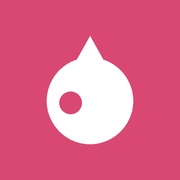
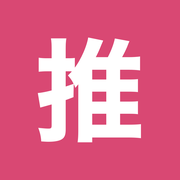
サイト名を推しトピアに変更（ロゴ・アイコン・マニフェスト）

diff --git a/milkies-hiroba/index.html b/milkies-hiroba/index.html
@@ -4,19 +4,19 @@
 <meta charset="utf-8">
 <meta name="viewport" content="width=device-width,initial-scale=1,viewport-fit=cover">
 <meta name="robots" content="noindex,nofollow">
-<meta name="description" content="スタダ男子の情報、ぜんぶここに。非公式ファン広場の試作版です。">
-<meta property="og:title" content="えびだん広場（非公式・試作版）">
+<meta name="description" content="スタダ男子10グループの情報を、グループ×カテゴリで仕分け。ファンの掲示板・コミュニティつき（非公式）。">
+<meta property="og:title" content="推しトピア（非公式・試作版）">
 <meta property="og:description" content="スタダ男子10グループの情報を、グループ×カテゴリで仕分け。公式もファンのいい投稿も、流れていかない推し活の広場（非公式）。">
 <meta property="og:type" content="website">
 <link rel="manifest" href="manifest.json">
 <link rel="apple-touch-icon" href="apple-touch-icon.png">
 <meta name="theme-color" content="#D94873">
-<meta name="apple-mobile-web-app-title" content="えびだん広場">
+<meta name="apple-mobile-web-app-title" content="推しトピア">
 <meta name="mobile-web-app-capable" content="yes">
 <script>window.VAPID_PUBLIC="BBrg_UQ1b9l-BGpztBQmAnhQroZDk8NaZHuG-es6Wx4m_HKfEJhBkURR8IZuIv-dGOQArskgBFJsL_bnpMs9rxU";</script>
 <script async src="https://platform.twitter.com/widgets.js" charset="utf-8"></script>
 <style>html{color-scheme:light dark}:root{padding-top:env(safe-area-inset-top,0px);padding-bottom:env(safe-area-inset-bottom,0px)}body{margin:0;-webkit-text-size-adjust:100%}img{max-width:100%}[hidden]{display:none!important}</style>
-<title>えびだん広場</title>
+<title>推しトピア</title>
 <link rel="preconnect" href="https://fonts.googleapis.com">
 <link rel="preconnect" href="https://fonts.gstatic.com" crossorigin>
 <link rel="stylesheet" href="https://fonts.googleapis.com/css2?family=Zen+Kaku+Gothic+New:wght@400;500;700&family=Zen+Maru+Gothic:wght@500;700&display=swap">
@@ -325,8 +325,8 @@ button.row{width:100%;text-align:left;background:none;border:0;border-top:1px so
 <header class="top">
   <div class="top-in">
     <a class="logo" href="#/home">
-      <svg width="22" height="26" viewBox="0 0 22 26" aria-hidden="true"><path d="M11 1C11 1 2 11.5 2 17a9 9 0 0 0 18 0C20 11.5 11 1 11 1z" fill="var(--accent-soft)" stroke="var(--accent)" stroke-width="2"/><circle cx="7.5" cy="17" r="1.8" fill="var(--accent)"/></svg>
-      えびだん広場 <small>非公式</small>
+      <svg width="24" height="24" viewBox="0 0 24 24" aria-hidden="true"><path d="M12 2.5l2.9 6 6.6.9-4.8 4.6 1.2 6.5L12 17.4 6.1 20.5l1.2-6.5L2.5 9.4l6.6-.9z" fill="var(--accent-soft)" stroke="var(--accent)" stroke-width="1.8" stroke-linejoin="round"/></svg>
+      推しトピア <small>非公式</small>
     </a>
     <div id="acct"></div>
   </div>
@@ -518,8 +518,8 @@ const $=s=>document.querySelector(s);
 const esc=s=>String(s).replace(/[&<>"']/g,c=>({'&':'&amp;','<':'&lt;','>':'&gt;','"':'&quot;',"'":'&#39;'}[c]));
 function toast(m){ const d=document.createElement('div'); d.className='toast'; d.textContent=m; document.body.appendChild(d); setTimeout(()=>d.remove(),2600); }
 function ng(t){
-  if(/譲|定価|売ります|買います|求む|交換.*チケ|チケ.*(交換|取引)/.test(t)) return 'チケットの売買・譲渡に関する書き込みはできません（えびだん広場のルール）';
-  if(/住所|自宅|熱愛|彼女|彼氏|実家/.test(t)) return 'メンバーのプライベートに関する書き込みはできません（えびだん広場のルール）';
+  if(/譲|定価|売ります|買います|求む|交換.*チケ|チケ.*(交換|取引)/.test(t)) return 'チケットの売買・譲渡に関する書き込みはできません（推しトピアのルール）';
+  if(/住所|自宅|熱愛|彼女|彼氏|実家/.test(t)) return 'メンバーのプライベートに関する書き込みはできません（推しトピアのルール）';
   return null;
 }
 function need(){ if(S.user) return true; openLogin(); return false; }
@@ -758,7 +758,7 @@ V.install=()=>{
   if(done){
     body=`<div class="panel compose ok-box"><b>ホーム画面に追加できています🎉</b>
       <p class="hint">あとは通知をオンにすれば、推しの新着情報が届きます。</p>
-      ${perm==='granted'?'<span class="chip ok">通知はオンになっています</span>':perm==='denied'?'<p class="err">通知がオフになっています。iPhoneの「設定」→「通知」→「えびだん広場」からオンにできます。</p>':'<div class="actions"><button class="btn" id="ask-noti">通知をオンにする</button></div>'}
+      ${perm==='granted'?'<span class="chip ok">通知はオンになっています</span>':perm==='denied'?'<p class="err">通知がオフになっています。iPhoneの「設定」→「通知」→「推しトピア」からオンにできます。</p>':'<div class="actions"><button class="btn" id="ask-noti">通知をオンにする</button></div>'}
       <p class="hint">※モックのため、実際の通知はまだ送られません。</p></div>`;
   } else if(inApp()){
     body=`<div class="panel compose warn-box"><b>このままでは追加できません</b>
@@ -860,7 +860,7 @@ V.pick=id=>{
   const p=S.picks.find(x=>x.id===id); if(!p) return V.info();
   return `<a class="back" href="#/info">← 情報一覧</a>
   ${pickCard(p)}
-  <div class="notice">ここでのコメントはえびだん広場の中だけに表示されます。元の投稿には反映されず、投稿者に通知も届きません。</div>
+  <div class="notice">ここでのコメントは推しトピアの中だけに表示されます。元の投稿には反映されず、投稿者に通知も届きません。</div>
   <section class="sec"><div class="sec-h"><h2>コメント ${p.comments.length}</h2></div>
     <div class="panel comments">${p.comments.map((c,i)=>`<div class="cm"><span class="meta"><b>${esc(c.by)}</b>${esc(c.ago)}</span><p>${esc(c.t)}</p><div class="res-foot">${reaxHTML(p.id+':c'+i,i===0?{wakaru:5,suki:2}:null)}${reportBtn('comment:'+p.id+':'+i)}</div></div>`).join('')||'<div class="cm"><p class="hint">まだコメントはありません。</p></div>'}</div>
     <form class="panel compose" id="cmform" data-id="${p.id}">
@@ -1173,7 +1173,7 @@ V.me=()=>{
       <div class="noti-list">${[['live','実況スレが立ったとき'],['news','推しグループの新着情報'],['comm','コミュニティ・イベントのお知らせ']].map(([k,l])=>`<label class="fl"><input type="checkbox" data-noti="${k}" ${S.noti[k]?'checked':''}> ${l}</label>`).join('')}</div>
       <p class="hint">${S.pushOn?'この端末は「アプリを閉じていても届く通知」に登録済みです。':'この端末では、アプリを開いているときだけお知らせします。'}</p>
       <div class="actions">${S.pushOn?'<button class="btn sm ghost" id="push-off">通知を止める</button>':'<button class="btn sm ghost" id="push-on">閉じていても届くようにする</button>'}<button class="btn sm ghost" id="test-noti">テスト通知</button></div>`
-    : notiState()==='denied'?`<p class="err">通知がオフになっています。iPhoneは「設定」→「通知」→「えびだん広場」、Androidはブラウザのサイト設定からオンにできます。</p>`
+    : notiState()==='denied'?`<p class="err">通知がオフになっています。iPhoneは「設定」→「通知」→「推しトピア」、Androidはブラウザのサイト設定からオンにできます。</p>`
     : isStandalone()?`<p class="hint">実況スレや推しの新着をお知らせします。</p><div class="actions"><button class="btn" id="ask-noti">通知をオンにする</button></div>`
     : `<p class="hint">iPhoneは<b>ホーム画面に追加すると</b>通知を受け取れます。</p><div class="actions"><a class="btn" href="#/install">ホーム画面に追加する</a></div>`}
   </div>
@@ -1184,7 +1184,7 @@ function providersHTML(){
   <p>※モックのため、どれを押しても実際のログインは行われません。</p>`;
 }
 function openLogin(){
-  $('#login-body').innerHTML=`<h2 id="login-title">えびだん広場にログイン</h2><p>見るだけならログインは不要です。コメントや書き込み、コミュニティ参加にはアカウントが必要です。</p>${providersHTML()}<div class="actions"><button class="btn ghost sm" id="login-cancel">あとで</button></div>`;
+  $('#login-body').innerHTML=`<h2 id="login-title">推しトピアにログイン</h2><p>見るだけならログインは不要です。コメントや書き込み、コミュニティ参加にはアカウントが必要です。</p>${providersHTML()}<div class="actions"><button class="btn ghost sm" id="login-cancel">あとで</button></div>`;
   const d=$('#login'); if(!d.open) d.showModal();
 }
 function profileStep(via){

diff --git a/mock/index.html b/mock/index.html
@@ -1,4 +1,4 @@
-<title>えびだん広場</title>
+<title>推しトピア</title>
 <link rel="preconnect" href="https://fonts.googleapis.com">
 <link rel="preconnect" href="https://fonts.gstatic.com" crossorigin>
 <link rel="stylesheet" href="https://fonts.googleapis.com/css2?family=Zen+Kaku+Gothic+New:wght@400;500;700&family=Zen+Maru+Gothic:wght@500;700&display=swap">
@@ -307,8 +307,8 @@ button.row{width:100%;text-align:left;background:none;border:0;border-top:1px so
 <header class="top">
   <div class="top-in">
     <a class="logo" href="#/home">
-      <svg width="22" height="26" viewBox="0 0 22 26" aria-hidden="true"><path d="M11 1C11 1 2 11.5 2 17a9 9 0 0 0 18 0C20 11.5 11 1 11 1z" fill="var(--accent-soft)" stroke="var(--accent)" stroke-width="2"/><circle cx="7.5" cy="17" r="1.8" fill="var(--accent)"/></svg>
-      えびだん広場 <small>非公式</small>
+      <svg width="24" height="24" viewBox="0 0 24 24" aria-hidden="true"><path d="M12 2.5l2.9 6 6.6.9-4.8 4.6 1.2 6.5L12 17.4 6.1 20.5l1.2-6.5L2.5 9.4l6.6-.9z" fill="var(--accent-soft)" stroke="var(--accent)" stroke-width="1.8" stroke-linejoin="round"/></svg>
+      推しトピア <small>非公式</small>
     </a>
     <div id="acct"></div>
   </div>
@@ -500,8 +500,8 @@ const $=s=>document.querySelector(s);
 const esc=s=>String(s).replace(/[&<>"']/g,c=>({'&':'&amp;','<':'&lt;','>':'&gt;','"':'&quot;',"'":'&#39;'}[c]));
 function toast(m){ const d=document.createElement('div'); d.className='toast'; d.textContent=m; document.body.appendChild(d); setTimeout(()=>d.remove(),2600); }
 function ng(t){
-  if(/譲|定価|売ります|買います|求む|交換.*チケ|チケ.*(交換|取引)/.test(t)) return 'チケットの売買・譲渡に関する書き込みはできません（えびだん広場のルール）';
-  if(/住所|自宅|熱愛|彼女|彼氏|実家/.test(t)) return 'メンバーのプライベートに関する書き込みはできません（えびだん広場のルール）';
+  if(/譲|定価|売ります|買います|求む|交換.*チケ|チケ.*(交換|取引)/.test(t)) return 'チケットの売買・譲渡に関する書き込みはできません（推しトピアのルール）';
+  if(/住所|自宅|熱愛|彼女|彼氏|実家/.test(t)) return 'メンバーのプライベートに関する書き込みはできません（推しトピアのルール）';
   return null;
 }
 function need(){ if(S.user) return true; openLogin(); return false; }
@@ -740,7 +740,7 @@ V.install=()=>{
   if(done){
     body=`<div class="panel compose ok-box"><b>ホーム画面に追加できています🎉</b>
       <p class="hint">あとは通知をオンにすれば、推しの新着情報が届きます。</p>
-      ${perm==='granted'?'<span class="chip ok">通知はオンになっています</span>':perm==='denied'?'<p class="err">通知がオフになっています。iPhoneの「設定」→「通知」→「えびだん広場」からオンにできます。</p>':'<div class="actions"><button class="btn" id="ask-noti">通知をオンにする</button></div>'}
+      ${perm==='granted'?'<span class="chip ok">通知はオンになっています</span>':perm==='denied'?'<p class="err">通知がオフになっています。iPhoneの「設定」→「通知」→「推しトピア」からオンにできます。</p>':'<div class="actions"><button class="btn" id="ask-noti">通知をオンにする</button></div>'}
       <p class="hint">※モックのため、実際の通知はまだ送られません。</p></div>`;
   } else if(inApp()){
     body=`<div class="panel compose warn-box"><b>このままでは追加できません</b>
@@ -842,7 +842,7 @@ V.pick=id=>{
   const p=S.picks.find(x=>x.id===id); if(!p) return V.info();
   return `<a class="back" href="#/info">← 情報一覧</a>
   ${pickCard(p)}
-  <div class="notice">ここでのコメントはえびだん広場の中だけに表示されます。元の投稿には反映されず、投稿者に通知も届きません。</div>
+  <div class="notice">ここでのコメントは推しトピアの中だけに表示されます。元の投稿には反映されず、投稿者に通知も届きません。</div>
   <section class="sec"><div class="sec-h"><h2>コメント ${p.comments.length}</h2></div>
     <div class="panel comments">${p.comments.map((c,i)=>`<div class="cm"><span class="meta"><b>${esc(c.by)}</b>${esc(c.ago)}</span><p>${esc(c.t)}</p><div class="res-foot">${reaxHTML(p.id+':c'+i,i===0?{wakaru:5,suki:2}:null)}${reportBtn('comment:'+p.id+':'+i)}</div></div>`).join('')||'<div class="cm"><p class="hint">まだコメントはありません。</p></div>'}</div>
     <form class="panel compose" id="cmform" data-id="${p.id}">
@@ -1155,7 +1155,7 @@ V.me=()=>{
       <div class="noti-list">${[['live','実況スレが立ったとき'],['news','推しグループの新着情報'],['comm','コミュニティ・イベントのお知らせ']].map(([k,l])=>`<label class="fl"><input type="checkbox" data-noti="${k}" ${S.noti[k]?'checked':''}> ${l}</label>`).join('')}</div>
       <p class="hint">${S.pushOn?'この端末は「アプリを閉じていても届く通知」に登録済みです。':'この端末では、アプリを開いているときだけお知らせします。'}</p>
       <div class="actions">${S.pushOn?'<button class="btn sm ghost" id="push-off">通知を止める</button>':'<button class="btn sm ghost" id="push-on">閉じていても届くようにする</button>'}<button class="btn sm ghost" id="test-noti">テスト通知</button></div>`
-    : notiState()==='denied'?`<p class="err">通知がオフになっています。iPhoneは「設定」→「通知」→「えびだん広場」、Androidはブラウザのサイト設定からオンにできます。</p>`
+    : notiState()==='denied'?`<p class="err">通知がオフになっています。iPhoneは「設定」→「通知」→「推しトピア」、Androidはブラウザのサイト設定からオンにできます。</p>`
     : isStandalone()?`<p class="hint">実況スレや推しの新着をお知らせします。</p><div class="actions"><button class="btn" id="ask-noti">通知をオンにする</button></div>`
     : `<p class="hint">iPhoneは<b>ホーム画面に追加すると</b>通知を受け取れます。</p><div class="actions"><a class="btn" href="#/install">ホーム画面に追加する</a></div>`}
   </div>
@@ -1166,7 +1166,7 @@ function providersHTML(){
   <p>※モックのため、どれを押しても実際のログインは行われません。</p>`;
 }
 function openLogin(){
-  $('#login-body').innerHTML=`<h2 id="login-title">えびだん広場にログイン</h2><p>見るだけならログインは不要です。コメントや書き込み、コミュニティ参加にはアカウントが必要です。</p>${providersHTML()}<div class="actions"><button class="btn ghost sm" id="login-cancel">あとで</button></div>`;
+  $('#login-body').innerHTML=`<h2 id="login-title">推しトピアにログイン</h2><p>見るだけならログインは不要です。コメントや書き込み、コミュニティ参加にはアカウントが必要です。</p>${providersHTML()}<div class="actions"><button class="btn ghost sm" id="login-cancel">あとで</button></div>`;
   const d=$('#login'); if(!d.open) d.showModal();
 }
 function profileStep(via){

diff --git a/README.md b/README.md
@@ -1,4 +1,4 @@
-# えびだん広場（試作モック）
+# 推しトピア（試作モック）
 
 スターダスト男性アイドル（EBiDAN系10グループ）の非公式ファン広場のモック。グループ×カテゴリ（メディア/イベント/グッズ/リリース/お知らせ）で情報を仕分け。持ち寄り投稿／掲示板／コミュニティ（mixi型・イベント）。
 データはすべて架空のサンプルで、書き込みは各ブラウザの中だけに保存される。
